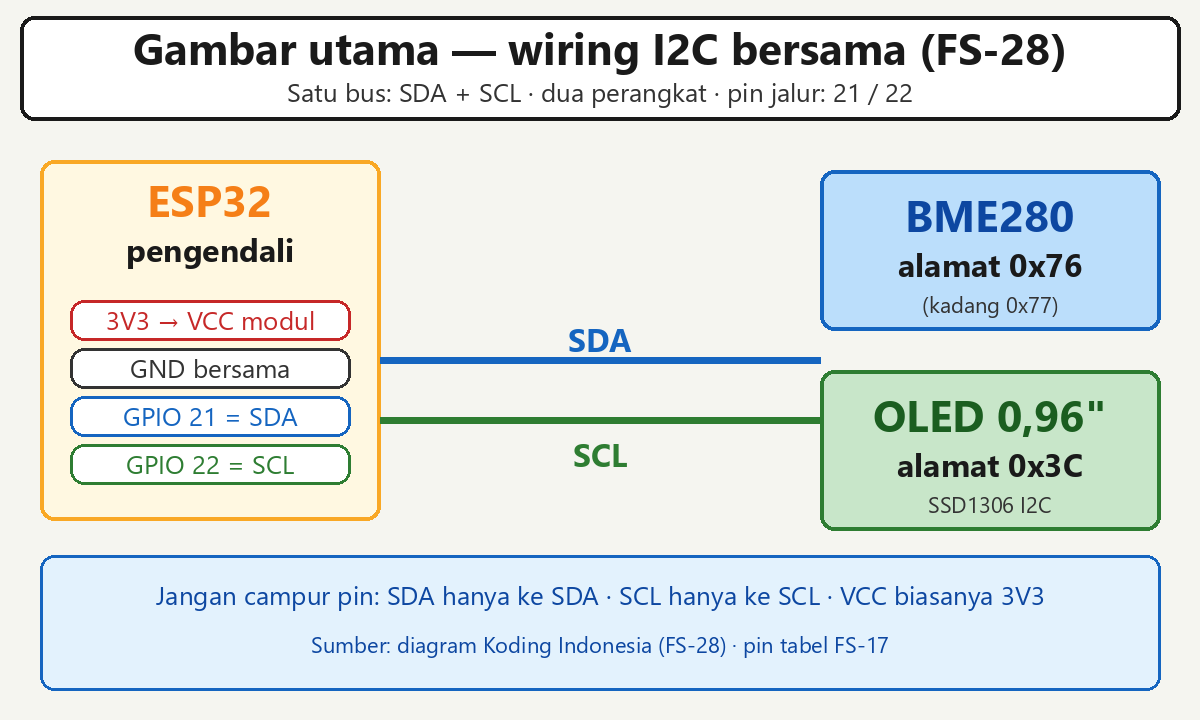
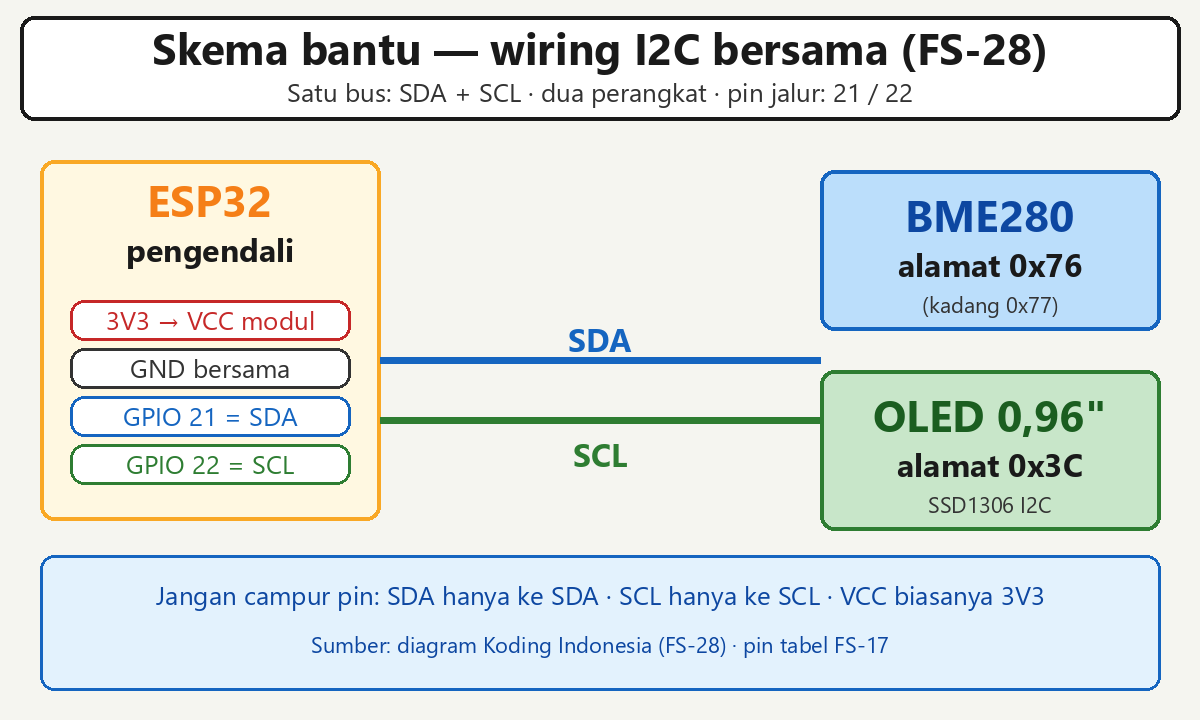
feat(fsiot): #98 use breadboard photo as main I2C figure
Promote the verified IO21/IO22 breadboard wiring to the main figure, keep the block diagram as a helper schematic, and document OLED SCK=SCL plus unused BME280 SPI pins for beginners.

Changed region(s): [[0.4008, 0.0306, 0.8942, 0.1222], [0.0925, 0.0306, 0.37, 0.0917]]

diff --git a/database/seeders/Article98Seeder.php b/database/seeders/Article98Seeder.php
@@ -162,10 +162,10 @@ HTML;
     {
         return <<<'HTML'
 <figure style="margin:1.5rem 0;max-width:100%;background:#F5F5F0;border:2.5px solid #1a1a1a;border-radius:8px;padding:0.75rem 0.75rem 0.35rem">
-  <img src="/images/fsiot/fs28-i2c-wiring.png" width="1200" height="720" alt="Gambar utama — wiring I2C ESP32 ke BME280 dan OLED" loading="eager" style="width:100%;height:auto;max-height:680px;object-fit:contain;border-radius:6px;background:#F5F5F0">
+  <img src="/images/fsiot/fs28-i2c-breadboard.png" width="1549" height="746" alt="Gambar utama — rangkaian I2C BME280 + OLED di breadboard GPIO 21/22" loading="eager" style="width:100%;height:auto;max-height:640px;object-fit:contain;border-radius:6px;background:#fff">
   <figcaption style="font-size:0.85rem;margin-top:0.5rem;color:#1a1a1a;">
-    <strong>Gambar utama — wiring I2C bersama.</strong> Kedua modul menempel di bus yang sama: <strong>SDA = GPIO 21</strong> · <strong>SCL = GPIO 22</strong> · VCC biasanya <strong>3V3</strong> · GND bersama. BME280 ≈ alamat <strong>0x76</strong> (kadang 0x77) · OLED ≈ <strong>0x3C</strong>.
-    <br>Sumber gambar: diagram buatan Koding Indonesia (FS-28). Acuan konsep I2C: <a href="https://www.analog.com/en/resources/analog-dialogue/articles/i2c-primer-what-is-i2c-part-1.html" rel="noopener noreferrer" target="_blank">Analog Devices — I²C Primer</a>. Pin jalur: tabel FS-17.
+    <strong>Gambar utama — rangkaian I2C di breadboard.</strong> Legenda warna: <strong>biru</strong> = <strong>IO21 / GPIO 21</strong> → <strong>SDA</strong> (BME280 + OLED) · <strong>hijau</strong> = <strong>IO22 / GPIO 22</strong> → <strong>SCL</strong> (di OLED sering tertulis <strong>SCK</strong> — itu jam I2C yang sama) · <strong>merah</strong> = <strong>3V3</strong> → VCC · <strong>hitam</strong> = <strong>GND</strong> bersama. Kedua modul berbagi bus yang sama.
+    <br>Tip BME280: pakai baris pin <strong>SCL / SDA / 3.3V / GND</strong>; baris bawah (<code>!CS</code>, <code>SDI</code>, …) untuk SPI — biarkan kosong. Sumber gambar: diagram rangkaian Koding Indonesia (FS-28).
   </figcaption>
 </figure>
 HTML;
@@ -175,10 +175,36 @@ HTML;
     {
         return <<<'HTML'
 <figure style="margin:1.5rem 0;max-width:100%;background:#F5F5F0;border:2.5px solid #1a1a1a;border-radius:8px;padding:0.75rem 0.75rem 0.35rem">
-  <img src="/images/fsiot/fs28-i2c-wiring.png" width="1200" height="720" alt="Main figure — I2C wiring ESP32 to BME280 and OLED" loading="eager" style="width:100%;height:auto;max-height:680px;object-fit:contain;border-radius:6px;background:#F5F5F0">
+  <img src="/images/fsiot/fs28-i2c-breadboard.png" width="1549" height="746" alt="Main figure — I2C BME280 + OLED breadboard wiring GPIO 21/22" loading="eager" style="width:100%;height:auto;max-height:640px;object-fit:contain;border-radius:6px;background:#fff">
   <figcaption style="font-size:0.85rem;margin-top:0.5rem;color:#1a1a1a;">
-    <strong>Main figure — shared I2C wiring.</strong> Both modules sit on the same bus: <strong>SDA = GPIO 21</strong> · <strong>SCL = GPIO 22</strong> · VCC usually <strong>3V3</strong> · shared GND. BME280 ≈ address <strong>0x76</strong> (sometimes 0x77) · OLED ≈ <strong>0x3C</strong>.
-    <br>Image source: diagram by Koding Indonesia (FS-28). I2C concept: <a href="https://www.analog.com/en/resources/analog-dialogue/articles/i2c-primer-what-is-i2c-part-1.html" rel="noopener noreferrer" target="_blank">Analog Devices — I²C Primer</a>. Path pins: FS-17 table.
+    <strong>Main figure — I2C on a breadboard.</strong> Color legend: <strong>blue</strong> = <strong>IO21 / GPIO 21</strong> → <strong>SDA</strong> (BME280 + OLED) · <strong>green</strong> = <strong>IO22 / GPIO 22</strong> → <strong>SCL</strong> (on many OLEDs labeled <strong>SCK</strong> — same I2C clock) · <strong>red</strong> = <strong>3V3</strong> → VCC · <strong>black</strong> = shared <strong>GND</strong>. Both modules share one bus.
+    <br>BME280 tip: use the <strong>SCL / SDA / 3.3V / GND</strong> row; the lower row (<code>!CS</code>, <code>SDI</code>, …) is for SPI — leave it empty. Image source: wiring diagram by Koding Indonesia (FS-28).
+  </figcaption>
+</figure>
+HTML;
+    }
+
+    private function schemaWiringFigureId(): string
+    {
+        return <<<'HTML'
+<figure style="margin:1.5rem 0;max-width:100%;background:#F5F5F0;border:2.5px solid #1a1a1a;border-radius:8px;padding:0.75rem 0.75rem 0.35rem">
+  <img src="/images/fsiot/fs28-i2c-wiring.png" width="1200" height="720" alt="Skema bantu — ringkasan pin I2C ESP32 BME280 OLED" loading="eager" style="width:100%;height:auto;max-height:560px;object-fit:contain;border-radius:6px;background:#F5F5F0">
+  <figcaption style="font-size:0.85rem;margin-top:0.5rem;color:#1a1a1a;">
+    <strong>Skema bantu (ringkas).</strong> Pin sama gambar utama: <strong>SDA = GPIO 21</strong> · <strong>SCL = GPIO 22</strong> · VCC <strong>3V3</strong> · GND bersama · BME280 ≈ <strong>0x76</strong> · OLED ≈ <strong>0x3C</strong>. Pakai ini jika lebih nyaman membaca kotak pin daripada foto breadboard.
+    <br>Sumber gambar: diagram Koding Indonesia (FS-28). Acuan konsep: <a href="https://www.analog.com/en/resources/analog-dialogue/articles/i2c-primer-what-is-i2c-part-1.html" rel="noopener noreferrer" target="_blank">Analog Devices — I²C Primer</a>.
+  </figcaption>
+</figure>
+HTML;
+    }
+
+    private function schemaWiringFigureEn(): string
+    {
+        return <<<'HTML'
+<figure style="margin:1.5rem 0;max-width:100%;background:#F5F5F0;border:2.5px solid #1a1a1a;border-radius:8px;padding:0.75rem 0.75rem 0.35rem">
+  <img src="/images/fsiot/fs28-i2c-wiring.png" width="1200" height="720" alt="Helper schematic — I2C pin summary ESP32 BME280 OLED" loading="eager" style="width:100%;height:auto;max-height:560px;object-fit:contain;border-radius:6px;background:#F5F5F0">
+  <figcaption style="font-size:0.85rem;margin-top:0.5rem;color:#1a1a1a;">
+    <strong>Helper schematic (compact).</strong> Same pins as the main figure: <strong>SDA = GPIO 21</strong> · <strong>SCL = GPIO 22</strong> · VCC <strong>3V3</strong> · shared GND · BME280 ≈ <strong>0x76</strong> · OLED ≈ <strong>0x3C</strong>. Use this if pin boxes are easier than the breadboard photo.
+    <br>Image source: diagram by Koding Indonesia (FS-28). Concept: <a href="https://www.analog.com/en/resources/analog-dialogue/articles/i2c-primer-what-is-i2c-part-1.html" rel="noopener noreferrer" target="_blank">Analog Devices — I²C Primer</a>.
   </figcaption>
 </figure>
 HTML;
@@ -358,6 +384,7 @@ CODE;
         $tools = $this->toolsFigureId();
         $lib = $this->libraryManagerFigureId();
         $main = $this->mainWiringFigureId();
+        $schema = $this->schemaWiringFigureId();
         $modul = $this->modulFigureId();
         $success = $this->successFigureId();
         $analogy = $this->analogySvgId();
@@ -404,12 +431,13 @@ CODE;
 <h2>Wiring (bahasa manusia)</h2>
 {$modul}
 {$main}
+{$schema}
 <p><strong>Blok kabel (kedua modul sama pola):</strong></p>
 <ul>
 <li><strong>VCC</strong> → <strong>3V3</strong> ESP32 (modul I2C tipikal 3,3 V — cek silkscreen; jangan asal 5V jika tertulis 3V3-only)</li>
 <li><strong>GND</strong> → <strong>GND</strong> ESP32</li>
-<li><strong>SDA</strong> → <strong>GPIO 21</strong></li>
-<li><strong>SCL</strong> → <strong>GPIO 22</strong></li>
+<li><strong>SDA</strong> → <strong>GPIO 21</strong> (di foto: kabel <strong>biru</strong>)</li>
+<li><strong>SCL</strong> → <strong>GPIO 22</strong> (di foto: kabel <strong>hijau</strong>; di OLED sering tertulis <strong>SCK</strong>)</li>
 </ul>
 <p><strong>Intinya:</strong> SDA ke SDA, SCL ke SCL — dua modul “nyambung paralel” di bus yang sama. Banyak modul sudah punya pull-up internal; kalau tidak ketemu di Serial, baru curiga pull-up / alamat.</p>
 
@@ -446,6 +474,7 @@ CODE;
 <h2>Kesalahan yang sering terjadi</h2>
 <ul>
 <li><strong>SDA/SCL tertukar.</strong> SDA hanya ke GPIO 21 · SCL ke GPIO 22.</li>
+<li><strong>Bingung label OLED “SCK”.</strong> Di modul I2C 0,96", <strong>SCK = SCL</strong> (jam) — sambungkan ke GPIO 22.</li>
 <li><strong>Alamat BME salah (0x76 vs 0x77).</strong> Ganti konstanta lalu Upload ulang.</li>
 <li><strong>Library belum lengkap.</strong> Pasang GFX dulu, lalu SSD1306, lalu BME280 (+ Unified Sensor jika diminta).</li>
 <li><strong>VCC ke 5V pada modul 3V3-only.</strong> Cek silkscreen; banyak breakout I2C aman di 3V3.</li>
@@ -466,6 +495,7 @@ HTML;
         $tools = $this->toolsFigureEn();
         $lib = $this->libraryManagerFigureEn();
         $main = $this->mainWiringFigureEn();
+        $schema = $this->schemaWiringFigureEn();
         $modul = $this->modulFigureEn();
         $success = $this->successFigureEn();
         $analogy = $this->analogySvgEn();
@@ -512,12 +542,13 @@ HTML;
 <h2>Wiring (human language)</h2>
 {$modul}
 {$main}
+{$schema}
 <p><strong>Cable block (same pattern for both modules):</strong></p>
 <ul>
 <li><strong>VCC</strong> → ESP32 <strong>3V3</strong> (typical I2C modules are 3.3 V — check silkscreen; don’t force 5V on 3V3-only boards)</li>
 <li><strong>GND</strong> → ESP32 <strong>GND</strong></li>
-<li><strong>SDA</strong> → <strong>GPIO 21</strong></li>
-<li><strong>SCL</strong> → <strong>GPIO 22</strong></li>
+<li><strong>SDA</strong> → <strong>GPIO 21</strong> (in the photo: the <strong>blue</strong> wire)</li>
+<li><strong>SCL</strong> → <strong>GPIO 22</strong> (in the photo: the <strong>green</strong> wire; on OLEDs often labeled <strong>SCK</strong>)</li>
 </ul>
 <p><strong>In short:</strong> SDA to SDA, SCL to SCL — both modules sit in parallel on the same bus. Many modules already include pull-ups; if Serial never finds them, then suspect pull-ups / addresses.</p>
 
@@ -554,6 +585,7 @@ HTML;
 <h2>Common mistakes</h2>
 <ul>
 <li><strong>SDA/SCL swapped.</strong> SDA only to GPIO 21 · SCL to GPIO 22.</li>
+<li><strong>Confused by OLED “SCK”.</strong> On a 0.96" I2C module, <strong>SCK = SCL</strong> (clock) — wire it to GPIO 22.</li>
 <li><strong>Wrong BME address (0x76 vs 0x77).</strong> Change the constant and Upload again.</li>
 <li><strong>Incomplete libraries.</strong> Install GFX first, then SSD1306, then BME280 (+ Unified Sensor if asked).</li>
 <li><strong>5V into a 3V3-only module.</strong> Check silkscreen; many I2C breakouts expect 3V3.</li>

diff --git a/scripts/audit-article98.php b/scripts/audit-article98.php
@@ -42,7 +42,7 @@ check('published_at null', str_contains($src, "'published_at'") && str_contains(
 check('slug fullstack-iot-i2c-bme280-oled', str_contains($src, 'fullstack-iot-i2c-bme280-oled'));
 check('seed route exists', str_contains($routes, 'seed-article-98-draft'));
 check('deploy seed step', str_contains($deploy, 'seed-article-98-draft'));
-check('ftp allowlist fs28', str_contains($deploy, 'fs28-i2c-wiring.png') && str_contains($deploy, 'fs28-cover-i2c.webp') && str_contains($deploy, 'fs28-library-manager.png') && str_contains($deploy, 'fs28-modul-kit.png') && str_contains($deploy, 'fs28-success-oled-serial.png') && str_contains($deploy, 'fs28-tools-ide.png'));
+check('ftp allowlist fs28', str_contains($deploy, 'fs28-i2c-breadboard.png') && str_contains($deploy, 'fs28-i2c-wiring.png') && str_contains($deploy, 'fs28-cover-i2c.webp') && str_contains($deploy, 'fs28-library-manager.png') && str_contains($deploy, 'fs28-modul-kit.png') && str_contains($deploy, 'fs28-success-oled-serial.png') && str_contains($deploy, 'fs28-tools-ide.png'));
 
 check('ID self-ref #98 (ini)', str_contains($id, '#98 (ini)'));
 check('EN self-ref #98 (this article)', str_contains($en, '#98 (this article)'));
@@ -53,8 +53,9 @@ check('no beginner word in body EN', ! preg_match('/\bbeginner\b/i', $en));
 check('friendly tip labels ID', str_contains($id, 'Intinya:') && str_contains($id, 'Cara pakai artikel ini') && str_contains($id, 'Analogi:'));
 check('friendly tip labels EN', str_contains($en, 'In short:') && str_contains($en, 'How to use this article') && str_contains($en, 'Analogy:'));
 check('H2 parity', substr_count($id, '<h2') === substr_count($en, '<h2'));
-check('figures both >= 6', substr_count($id, '<figure') >= 6 && substr_count($en, '<figure') >= 6);
+check('figures both >= 7', substr_count($id, '<figure') >= 7 && substr_count($en, '<figure') >= 7);
 
+check('breadboard PNG asset', str_contains($id, 'fs28-i2c-breadboard.png') && is_file($root.'/public/images/fsiot/fs28-i2c-breadboard.png'));
 check('wiring PNG asset', str_contains($id, 'fs28-i2c-wiring.png') && is_file($root.'/public/images/fsiot/fs28-i2c-wiring.png'));
 check('tools PNG asset', str_contains($id, 'fs28-tools-ide.png') && is_file($root.'/public/images/fsiot/fs28-tools-ide.png'));
 check('library PNG asset', str_contains($id, 'fs28-library-manager.png') && is_file($root.'/public/images/fsiot/fs28-library-manager.png'));
@@ -63,8 +64,12 @@ check('success PNG asset', str_contains($id, 'fs28-success-oled-serial.png') && 
 check('cover jpg asset', is_file($root.'/public/images/fsiot/fs28-cover-i2c.jpg'));
 check('cover webp asset', is_file($root.'/public/images/fsiot/fs28-cover-i2c.webp'));
 check('cover seeder prefers webp', str_contains($src, 'fs28-cover-i2c.webp'));
-check('Gambar utama label ID', str_contains($id, 'Gambar utama') && str_contains($id, 'fs28-i2c-wiring.png'));
-check('Main figure label EN', str_contains($en, 'Main figure') && str_contains($en, 'fs28-i2c-wiring.png'));
+check('Gambar utama breadboard ID', str_contains($id, 'Gambar utama') && str_contains($id, 'fs28-i2c-breadboard.png'));
+check('Main figure breadboard EN', str_contains($en, 'Main figure') && str_contains($en, 'fs28-i2c-breadboard.png'));
+check('Skema bantu label ID', str_contains($id, 'Skema bantu') && str_contains($id, 'fs28-i2c-wiring.png'));
+check('Helper schematic label EN', str_contains($en, 'Helper schematic') && str_contains($en, 'fs28-i2c-wiring.png'));
+check('OLED SCK equals SCL tip', str_contains($id, 'SCK = SCL') && str_contains($en, 'SCK = SCL'));
+check('BME280 SPI row tip', str_contains($id, '!CS') && str_contains($en, '!CS'));
 check('Commons BME280 cite', str_contains($id, 'SparkFun_Atmospheric_Sensor_Breakout') && str_contains($en, 'SparkFun_Atmospheric_Sensor_Breakout'));
 check('IDE Commons cite', str_contains($id, 'Ide-2-overview.png'));
 check('OLED ilustrasi tipikal', str_contains($id, 'ilustrasi bentuk tipikal') && str_contains($en, 'typical-shape illustration'));

diff --git a/app/Http/Controllers/DeployController.php b/app/Http/Controllers/DeployController.php
@@ -9076,8 +9076,11 @@ class DeployController extends Controller
             'GPIO 22',
             'FS28_bme280_oled',
             'Adafruit',
+            'fs28-i2c-breadboard.png',
             'fs28-i2c-wiring.png',
             'Gambar utama',
+            'Skema bantu',
+            'SCK = SCL',
             'Buka Arduino IDE dulu',
             'Library Manager',
             '115200',
@@ -9107,7 +9110,10 @@ class DeployController extends Controller
             'Common mistakes',
             'How to test the commands above',
             'Main figure',
+            'Helper schematic',
+            'fs28-i2c-breadboard.png',
             'fs28-i2c-wiring.png',
+            'SCK = SCL',
             'Open Arduino IDE first',
             'BME280',
             'OLED',

diff --git a/scripts/gen-fs28-assets.py b/scripts/gen-fs28-assets.py
@@ -137,7 +137,7 @@ W, H = 1200, 720
 img = Image.new("RGB", (W, H), "#F5F5F0")
 d = ImageDraw.Draw(img)
 box(d, (20, 16, W - 20, 120), "#FFFFFF", "#1a1a1a", 4)
-center(d, W // 2, 48, "Gambar utama — wiring I2C bersama (FS-28)", FT)
+center(d, W // 2, 48, "Skema bantu — wiring I2C bersama (FS-28)", FT)
 center(d, W // 2, 92, "Satu bus: SDA + SCL · dua perangkat · pin jalur: 21 / 22", F, "#333")
 
 # ESP32 box
